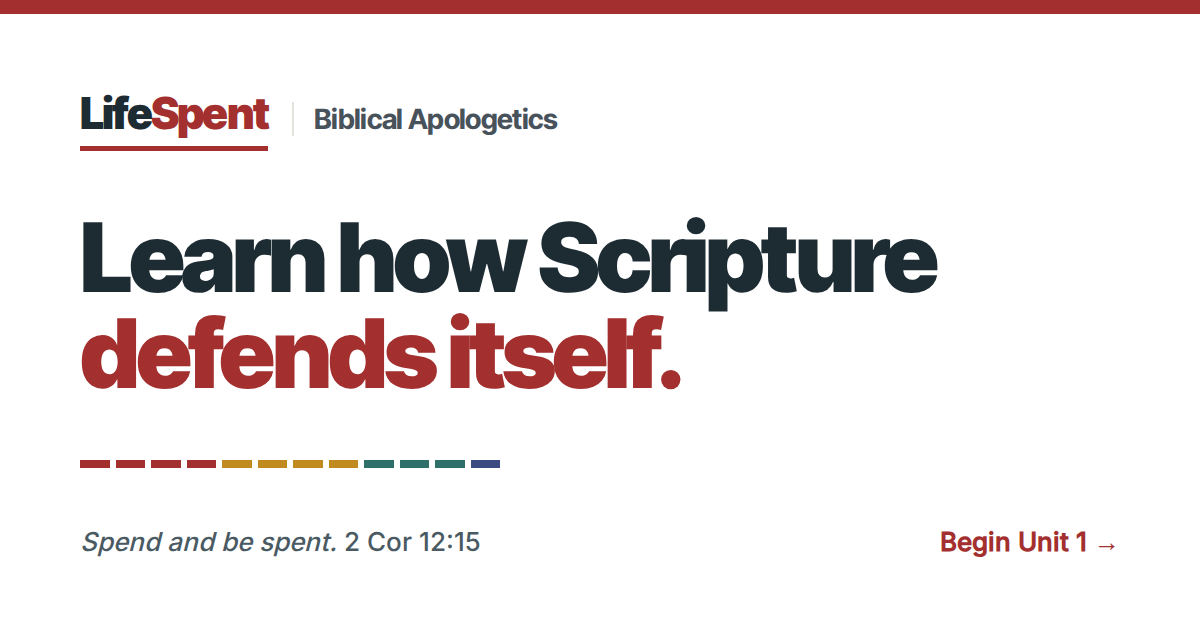
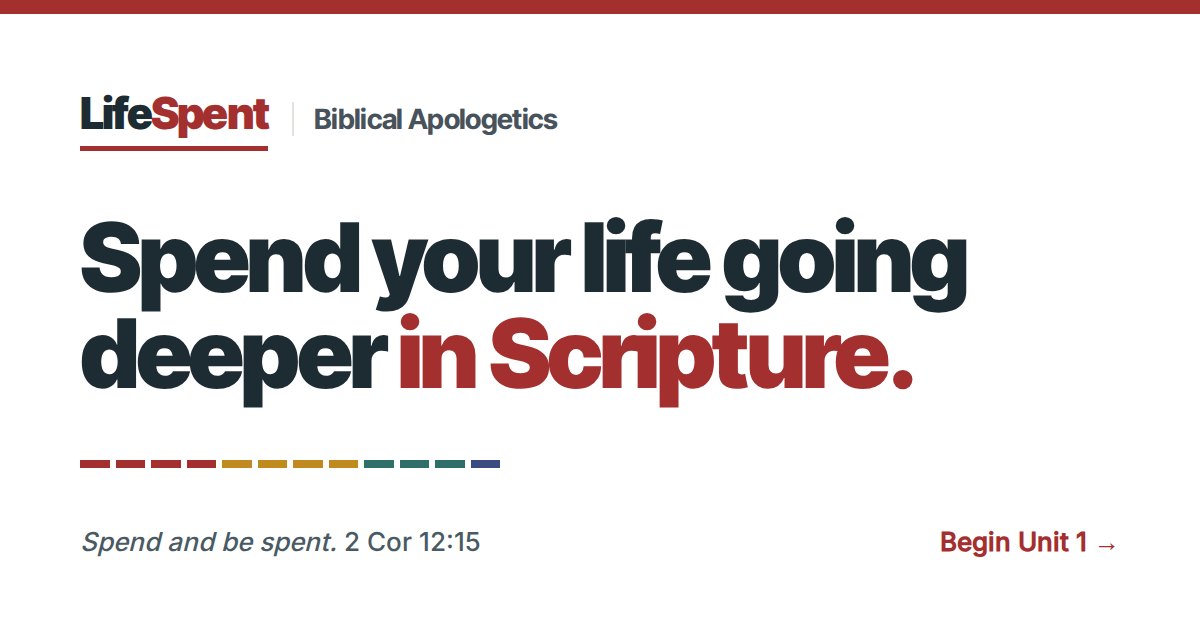
Share image: new headline; cache-busted og:image URL

Changed region(s): [[0.0617, 0.3317, 0.8325, 0.6635]]

diff --git a/og.html b/og.html
@@ -20,7 +20,7 @@ h1{font-weight:900;font-size:96px;line-height:1;letter-spacing:-.04em;margin:0}
   </head>
   <body>
     <div class="top"><span class="lsw">Life<span>Spent</span></span><span class="crs">Biblical Apologetics</span></div>
-    <h1>Learn how Scripture<br><span class="accent">defends itself.</span></h1>
+    <h1>Spend your life going<br>deeper <span class="accent">in Scripture.</span></h1>
     <div class="bar"><i style="background:#a3302f"></i><i style="background:#a3302f"></i><i style="background:#a3302f"></i><i style="background:#a3302f"></i><i style="background:#c08a1e"></i><i style="background:#c08a1e"></i><i style="background:#c08a1e"></i><i style="background:#c08a1e"></i><i style="background:#2f6f6a"></i><i style="background:#2f6f6a"></i><i style="background:#2f6f6a"></i><i style="background:#3b4b82"></i></div>
     <div class="foot"><span><i>Spend and be spent.</i> 2 Cor 12:15</span><b>Begin Unit 1 →</b></div>
   </body>

diff --git a/units/unit-04.html b/units/unit-04.html
@@ -20,7 +20,7 @@
     <meta property="og:title" content="Unit 4: God&#x27;s Case Against Idols: Idolatry and Worldview Critique · Biblical Apologetics">
     <meta property="og:description" content="Spend your life going deeper in Scripture. A 12-Week Self-Study.">
     <meta property="og:url" content="https://www.lifespent.org/units/unit-04.html">
-    <meta property="og:image" content="https://www.lifespent.org/assets/og.png">
+    <meta property="og:image" content="https://www.lifespent.org/assets/og.png?v=89b5886e">
     <meta property="og:image:width" content="1200">
     <meta property="og:image:height" content="630">
     <meta name="twitter:card" content="summary_large_image">

diff --git a/units/unit-06.html b/units/unit-06.html
@@ -20,7 +20,7 @@
     <meta property="og:title" content="Unit 6: Eyewitness Testimony: Textual Reliability · Biblical Apologetics">
     <meta property="og:description" content="Spend your life going deeper in Scripture. A 12-Week Self-Study.">
     <meta property="og:url" content="https://www.lifespent.org/units/unit-06.html">
-    <meta property="og:image" content="https://www.lifespent.org/assets/og.png">
+    <meta property="og:image" content="https://www.lifespent.org/assets/og.png?v=89b5886e">
     <meta property="og:image:width" content="1200">
     <meta property="og:image:height" content="630">
     <meta name="twitter:card" content="summary_large_image">

diff --git a/units/unit-03.html b/units/unit-03.html
@@ -20,7 +20,7 @@
     <meta property="og:title" content="Unit 3: What Everyone Knows: Natural Revelation · Biblical Apologetics">
     <meta property="og:description" content="Spend your life going deeper in Scripture. A 12-Week Self-Study.">
     <meta property="og:url" content="https://www.lifespent.org/units/unit-03.html">
-    <meta property="og:image" content="https://www.lifespent.org/assets/og.png">
+    <meta property="og:image" content="https://www.lifespent.org/assets/og.png?v=89b5886e">
     <meta property="og:image:width" content="1200">
     <meta property="og:image:height" content="630">
     <meta name="twitter:card" content="summary_large_image">

diff --git a/units/unit-09.html b/units/unit-09.html
@@ -20,7 +20,7 @@
     <meta property="og:title" content="Unit 9: How Jesus Argued: Argumentative Methods · Biblical Apologetics">
     <meta property="og:description" content="Spend your life going deeper in Scripture. A 12-Week Self-Study.">
     <meta property="og:url" content="https://www.lifespent.org/units/unit-09.html">
-    <meta property="og:image" content="https://www.lifespent.org/assets/og.png">
+    <meta property="og:image" content="https://www.lifespent.org/assets/og.png?v=89b5886e">
     <meta property="og:image:width" content="1200">
     <meta property="og:image:height" content="630">
     <meta name="twitter:card" content="summary_large_image">

diff --git a/units/unit-08.html b/units/unit-08.html
@@ -20,7 +20,7 @@
     <meta property="og:title" content="Unit 8: Evil and Suffering: The Cross and Hope · Biblical Apologetics">
     <meta property="og:description" content="Spend your life going deeper in Scripture. A 12-Week Self-Study.">
     <meta property="og:url" content="https://www.lifespent.org/units/unit-08.html">
-    <meta property="og:image" content="https://www.lifespent.org/assets/og.png">
+    <meta property="og:image" content="https://www.lifespent.org/assets/og.png?v=89b5886e">
     <meta property="og:image:width" content="1200">
     <meta property="og:image:height" content="630">
     <meta name="twitter:card" content="summary_large_image">

diff --git a/units/unit-02.html b/units/unit-02.html
@@ -20,7 +20,7 @@
     <meta property="og:title" content="Unit 2: How We Know: Biblical Epistemology · Biblical Apologetics">
     <meta property="og:description" content="Spend your life going deeper in Scripture. A 12-Week Self-Study.">
     <meta property="og:url" content="https://www.lifespent.org/units/unit-02.html">
-    <meta property="og:image" content="https://www.lifespent.org/assets/og.png">
+    <meta property="og:image" content="https://www.lifespent.org/assets/og.png?v=89b5886e">
     <meta property="og:image:width" content="1200">
     <meta property="og:image:height" content="630">
     <meta name="twitter:card" content="summary_large_image">

diff --git a/units/unit-10.html b/units/unit-10.html
@@ -20,7 +20,7 @@
     <meta property="og:title" content="Unit 10: Acts: An Apologetics Handbook · Biblical Apologetics">
     <meta property="og:description" content="Spend your life going deeper in Scripture. A 12-Week Self-Study.">
     <meta property="og:url" content="https://www.lifespent.org/units/unit-10.html">
-    <meta property="og:image" content="https://www.lifespent.org/assets/og.png">
+    <meta property="og:image" content="https://www.lifespent.org/assets/og.png?v=89b5886e">
     <meta property="og:image:width" content="1200">
     <meta property="og:image:height" content="630">
     <meta name="twitter:card" content="summary_large_image">

diff --git a/units/unit-01.html b/units/unit-01.html
@@ -20,7 +20,7 @@
     <meta property="og:title" content="Unit 1: The Mandate &amp; The Posture · Biblical Apologetics">
     <meta property="og:description" content="Spend your life going deeper in Scripture. A 12-Week Self-Study.">
     <meta property="og:url" content="https://www.lifespent.org/units/unit-01.html">
-    <meta property="og:image" content="https://www.lifespent.org/assets/og.png">
+    <meta property="og:image" content="https://www.lifespent.org/assets/og.png?v=89b5886e">
     <meta property="og:image:width" content="1200">
     <meta property="og:image:height" content="630">
     <meta name="twitter:card" content="summary_large_image">

diff --git a/units/unit-05.html b/units/unit-05.html
@@ -20,7 +20,7 @@
     <meta property="og:title" content="Unit 5: Prophecy and Fulfillment · Biblical Apologetics">
     <meta property="og:description" content="Spend your life going deeper in Scripture. A 12-Week Self-Study.">
     <meta property="og:url" content="https://www.lifespent.org/units/unit-05.html">
-    <meta property="og:image" content="https://www.lifespent.org/assets/og.png">
+    <meta property="og:image" content="https://www.lifespent.org/assets/og.png?v=89b5886e">
     <meta property="og:image:width" content="1200">
     <meta property="og:image:height" content="630">
     <meta name="twitter:card" content="summary_large_image">

diff --git a/units/unit-12.html b/units/unit-12.html
@@ -20,7 +20,7 @@
     <meta property="og:title" content="Unit 12: Synthesis and Posture · Biblical Apologetics">
     <meta property="og:description" content="Spend your life going deeper in Scripture. A 12-Week Self-Study.">
     <meta property="og:url" content="https://www.lifespent.org/units/unit-12.html">
-    <meta property="og:image" content="https://www.lifespent.org/assets/og.png">
+    <meta property="og:image" content="https://www.lifespent.org/assets/og.png?v=89b5886e">
     <meta property="og:image:width" content="1200">
     <meta property="og:image:height" content="630">
     <meta name="twitter:card" content="summary_large_image">

diff --git a/units/unit-11.html b/units/unit-11.html
@@ -20,7 +20,7 @@
     <meta property="og:title" content="Unit 11: Paul&#x27;s Defenses · Biblical Apologetics">
     <meta property="og:description" content="Spend your life going deeper in Scripture. A 12-Week Self-Study.">
     <meta property="og:url" content="https://www.lifespent.org/units/unit-11.html">
-    <meta property="og:image" content="https://www.lifespent.org/assets/og.png">
+    <meta property="og:image" content="https://www.lifespent.org/assets/og.png?v=89b5886e">
     <meta property="og:image:width" content="1200">
     <meta property="og:image:height" content="630">
     <meta name="twitter:card" content="summary_large_image">
